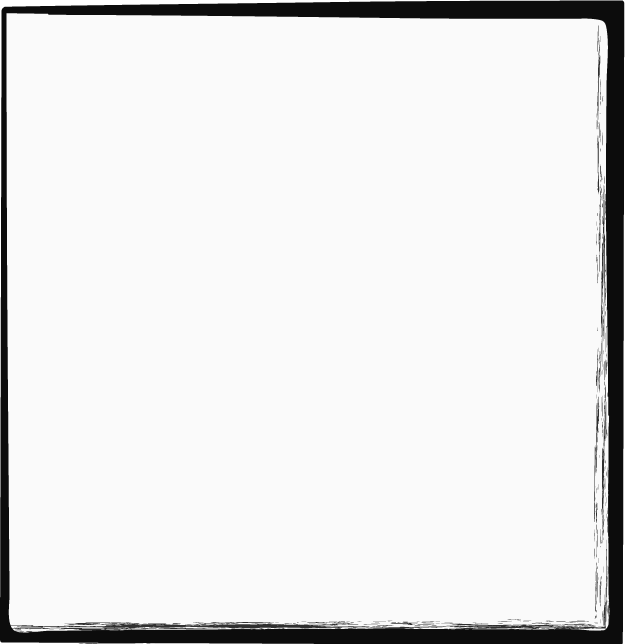
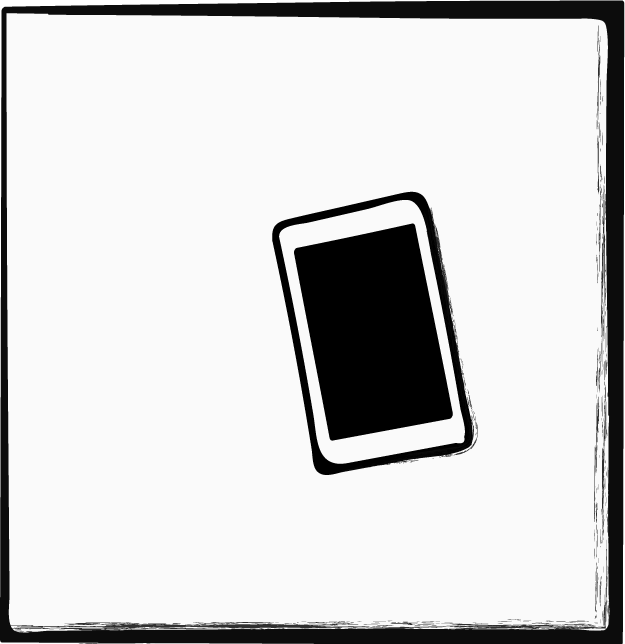
animations and sound correction
hallooo

Changed region(s): [[0.4256, 0.2795, 0.7904, 0.7453]]

diff --git a/bproj/js/main.js b/bproj/js/main.js
@@ -1806,25 +1806,37 @@ function scene31() {
   document.querySelector(".clicking-keyboard-mercy").pause();
   document.querySelector(".typing-mercy").pause();
   document.querySelector(".mail-notification1").pause();
-  document.querySelector(".mail-notification2").currentTime = 0;
-  document.querySelector(".mail-notification2").play();
-  document.querySelector(".mail-notification2").loop = true;
-  document.querySelector(".mail-notification2").volume = 0.5;
   text.phrase24.style.display = "none";
   text.phrase25.style.display = "none";
   character.mercy3a.style.display = "none";
   character.mercy3b.style.display = "block";
   document.querySelector("#mail2").style.display = "block"
   setTimeout(() => {
+    document.querySelector(".mail-notification2").currentTime = 0;
+    document.querySelector(".mail-notification2").play();
+    document.querySelector(".mail-notification2").loop = false;
+    document.querySelector(".mail-notification2").volume = 0.5;
     variable.currentScene = 32;
   }, 200)
   setTimeout(() => {
+    document.querySelector(".mail-notification3").currentTime = 0;
+    document.querySelector(".mail-notification3").play();
+    document.querySelector(".mail-notification3").loop = false;
+    document.querySelector(".mail-notification3").volume = 0.5;
     document.querySelector("#mail3").style.display = "block"
   }, 500)
   setTimeout(() => {
+    document.querySelector(".mail-notification4").currentTime = 0;
+    document.querySelector(".mail-notification4").play();
+    document.querySelector(".mail-notification4").loop = false;
+    document.querySelector(".mail-notification4").volume = 0.5;
     document.querySelector("#mail4").style.display = "block"
   }, 1000)
   setTimeout(() => {
+    document.querySelector(".mail-notification5").currentTime = 0;
+    document.querySelector(".mail-notification5").play();
+    document.querySelector(".mail-notification5").loop = false;
+    document.querySelector(".mail-notification5").volume = 0.5;
     ux.click.style.display = "none";
     document.querySelector("#mail5").style.display = "block"
     text.phrase26.style.display = "block";
@@ -1930,7 +1942,6 @@ function setTranslate(xPos, yPos, el) {
 function mercyChaos() {
   document.querySelector(".wind-sound").pause();
   gifs.arrowdrag.style.display = "none";
-  document.querySelector(".mail-notification2").pause();
 
   document.querySelector(".wind-sound").pause();
   ux.click.style.display = "block";
@@ -2419,7 +2430,7 @@ function scene55() {
     document.querySelector(".bar-ambience-late").currentTime = 0;
     document.querySelector(".bar-ambience-late").play();
     document.querySelector(".bar-ambience-late").loop = true;
-    document.querySelector(".bar-ambience-late").volume = 0.1;
+    document.querySelector(".bar-ambience-late").volume = 0.05;
     scene.guest29.style.display = "block";
     scene.guest30.style.display = "block";
   }, 4200)
@@ -2452,10 +2463,6 @@ function scene55a() {
 
 // look whos back!!
 function scene55b() {
-  document.querySelector(".french-sound").currentTime = 0;
-  document.querySelector(".french-sound").play();
-  document.querySelector(".french-sound").loop = true;
-  document.querySelector(".french-sound").volume = 0.3;
   document.querySelector(".bar-ambience-full1").pause();
   document.querySelector(".bar-ambience-full2").pause();
   ux.click.style.display = "none";
@@ -2543,6 +2550,10 @@ function scene61() {
 
 /// VALENTINO: LAST SCENE OF STORY
 function goValentinoEnd() {
+  document.querySelector(".french-sound").currentTime = 0;
+  document.querySelector(".french-sound").play();
+  document.querySelector(".french-sound").loop = false;
+  document.querySelector(".french-sound").volume = 0.3;
   ux.click.style.display = "none";
   ux.scroll.style.display = "none";
   domElement.intro.style.display = "none";
@@ -2608,7 +2619,7 @@ function postit1() {
   document.querySelector(".post-it-sound").currentTime = 0;
   document.querySelector(".post-it-sound").play();
   document.querySelector(".post-it-sound").loop = false;
-  document.querySelector(".post-it-sound").volume = 0.4;
+  document.querySelector(".post-it-sound").volume = 0.2;
 }
 
 function postit2() {
@@ -2616,7 +2627,7 @@ function postit2() {
   document.querySelector(".post-it-sound").currentTime = 0;
   document.querySelector(".post-it-sound").play();
   document.querySelector(".post-it-sound").loop = false;
-  document.querySelector(".post-it-sound").volume = 0.4;
+  document.querySelector(".post-it-sound").volume = 0.2;
 }
 
 function postit3() {
@@ -2625,7 +2636,7 @@ function postit3() {
   document.querySelector(".post-it-sound").currentTime = 0;
   document.querySelector(".post-it-sound").play();
   document.querySelector(".post-it-sound").loop = false;
-  document.querySelector(".post-it-sound").volume = 0.4;
+  document.querySelector(".post-it-sound").volume = 0.2;
 }
 
 function postit4() {
@@ -2633,7 +2644,7 @@ function postit4() {
   document.querySelector(".post-it-sound").currentTime = 0;
   document.querySelector(".post-it-sound").play();
   document.querySelector(".post-it-sound").loop = false;
-  document.querySelector(".post-it-sound").volume = 0.4;
+  document.querySelector(".post-it-sound").volume = 0.2;
 }
 
 function postit5() {
@@ -2641,7 +2652,7 @@ function postit5() {
   document.querySelector(".post-it-sound").currentTime = 0;
   document.querySelector(".post-it-sound").play();
   document.querySelector(".post-it-sound").loop = false;
-  document.querySelector(".post-it-sound").volume = 0.4;
+  document.querySelector(".post-it-sound").volume = 0.2;
 }
 
 
@@ -2659,7 +2670,6 @@ function scene82() {
 }
 
 function scene83() {
-  document.querySelector(".french-sound").pause();
   scene.valentinoPostIt.style.display = "none";
   text.phrase39.style.display = "none";
   text.phrase40.style.display = "block";
@@ -2670,6 +2680,7 @@ function scene83() {
 
 // OUTRO: thank you, you were best assistant ever
 function outro1() {
+  document.querySelector(".french-sound").pause();
   domElement.assets.style.display = "none";
   character.valentino.style.display = "none";
   character.lawrence.style.display = "none";

diff --git a/bproj/index.html b/bproj/index.html
@@ -631,6 +631,9 @@
     <audio src="sound/mercy-scene/mouse-click.mp3" class="clicking-keyboard-mercy"></audio>
     <audio src="sound/mercy-scene/mail-notification.mp3" class="mail-notification1"></audio>
     <audio src="sound/mercy-scene/mail-notification.mp3" class="mail-notification2"></audio>
+    <audio src="sound/mercy-scene/mail-notification.mp3" class="mail-notification3"></audio>
+    <audio src="sound/mercy-scene/mail-notification.mp3" class="mail-notification4"></audio>
+    <audio src="sound/mercy-scene/mail-notification.mp3" class="mail-notification5"></audio>
     <audio src="sound/mercy-scene/wind-short2.mp3" class="wind-sound"></audio>
     <audio src="sound/mercy-scene/swoosh-wind.mp3" class="wind-sound2"></audio>
     <audio src="sound/mercy-scene/face-hitting-keyboard.mp3" class="face-hit"></audio>

diff --git a/bproj/css/3-mercy.css b/bproj/css/3-mercy.css
@@ -259,8 +259,19 @@
 
 #mercy-4 {
     display: none;
-    right: 80vw;
+    animation: walking 2.5s forwards ease-out;
 }
+
+@keyframes walking {
+    0% {
+        right: 120vw;
+    }
+
+    100% {
+        right: 61vw;
+    }
+}
+
 
 #mercy-5a {
     display: none;
